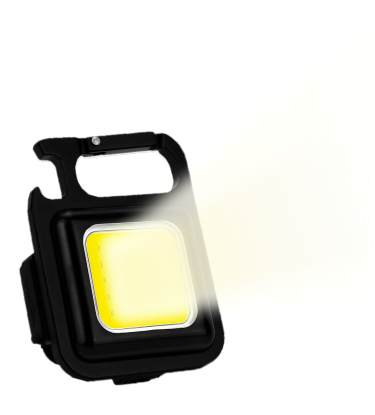
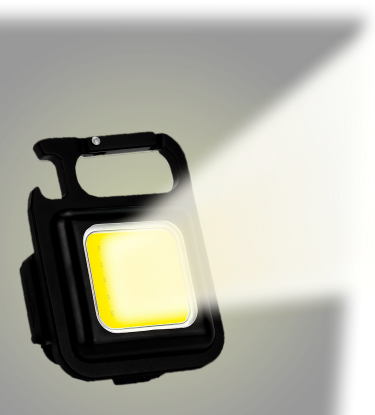
03.02

diff --git a/css/media.css b/css/media.css
@@ -184,8 +184,7 @@
 	.success {width: 95%;}
 }
 @media only screen and (max-width : 395px) {
-	.img__laptop {background-image: url(../images/header-mb.png); background-size: contain; margin-top: -120px; position: relative;}
-	.img__laptop::before {content: ''; background-image: url(../images/bg-frame-4.png); background-repeat: no-repeat; background-position: center center;}
+	.img__laptop {background-image: url(../images/header-mb.png); background-size: contain; margin-top: -120px;}
 	.header__title h1 { font-size: 30px; line-height: 30px;}
 	.header__title h1 span {font-size: 30px;}
 	.header__title p {font-size: 20px;}
